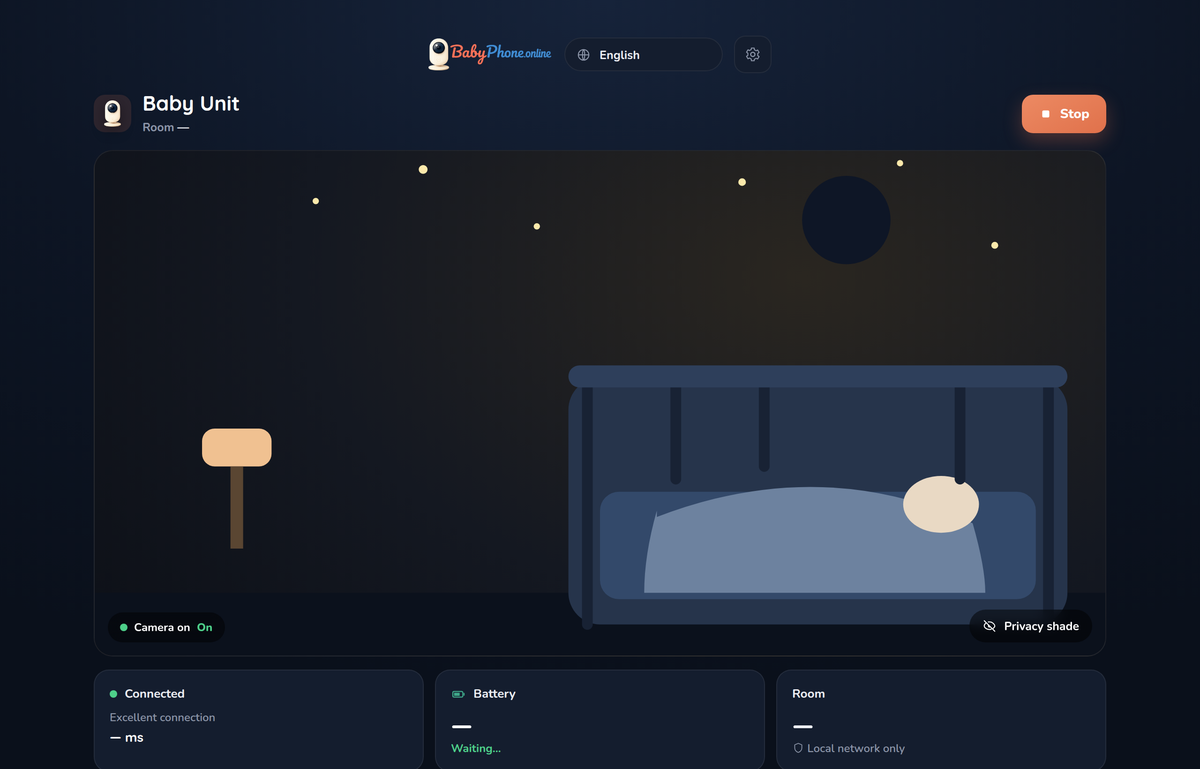
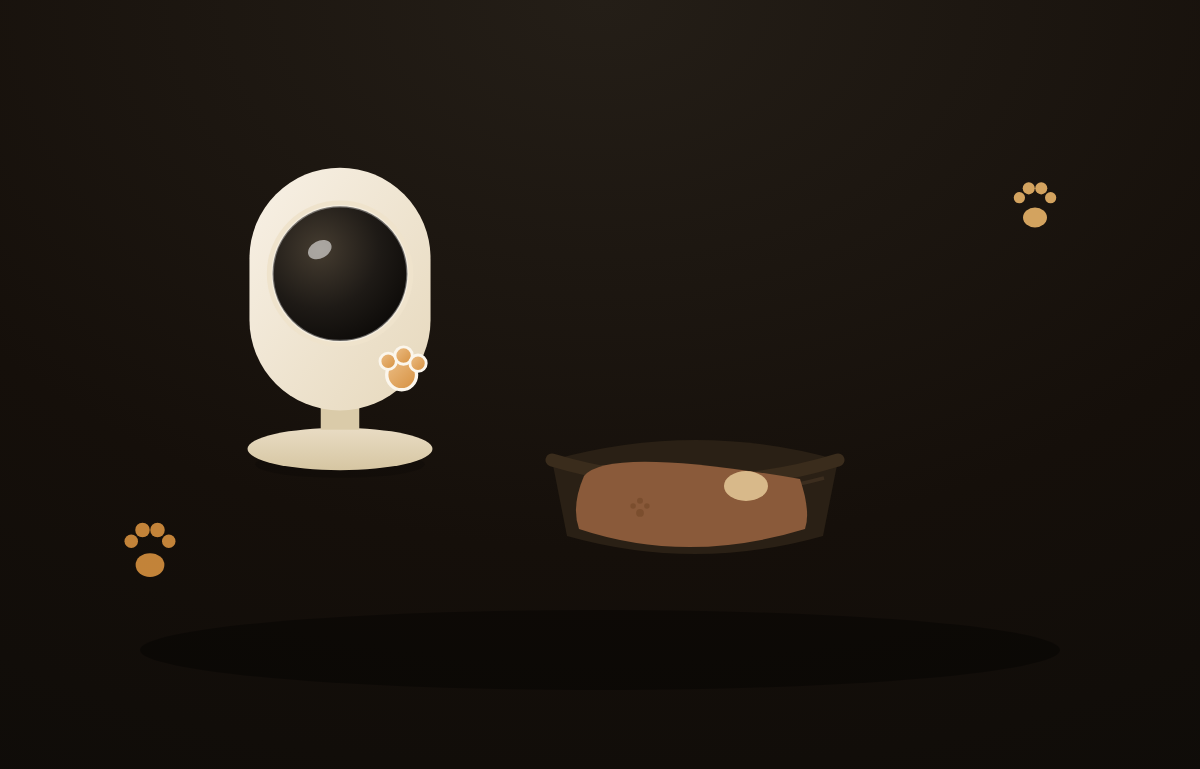
Add new PetCam.online brand assets
Replaces the babyphone camera illustration, wordmark, favicons, hero
image, og-image, and blog banners with a hand-authored pet-cam +
paw-print mark rendered via Playwright/SVG, matching the "Rustige
Schemering" amber/charcoal palette. Adjusts index.html logo width/
height attributes for the new 4:1 wordmark aspect ratio.

diff --git a/serverless/index.html b/serverless/index.html
@@ -182,7 +182,7 @@
         <!-- top nav -->
         <header class="lp-nav">
           <a class="lp-brand" href="./" aria-label="PetCam.online">
-            <img class="lp-logo" src="assets/logo.png" alt="PetCam.online" width="200" height="52" />
+            <img class="lp-logo" src="assets/logo.png" alt="PetCam.online" width="200" height="50" />
           </a>
           <div class="lp-nav-right">
             <a href="privacy.html" class="lp-navlink" data-i18n="navPrivacy">Privacy</a>
@@ -305,7 +305,7 @@
 
         <!-- footer -->
         <footer class="lp-footer">
-          <div class="lp-footer-brand"><img class="lp-logo foot" src="assets/logo.png" alt="PetCam.online" width="170" height="44" /></div>
+          <div class="lp-footer-brand"><img class="lp-logo foot" src="assets/logo.png" alt="PetCam.online" width="170" height="43" /></div>
           <p data-i18n="footPrivacy">Video and sound go directly between your own devices. No recordings are stored.</p>
           <p class="lp-foot-dis" data-i18n="footDisclaimer">An aid, not a replacement for in-person care of your pet.</p>
           <nav class="lp-foot-links" aria-label="Legal">
@@ -370,7 +370,7 @@
     <!-- ======================= OWNER UNIT (dark dashboard) ======================= -->
     <section id="screenParent" class="hidden">
       <div class="dash-topbar">
-        <div class="dash-brand"><img class="dash-logo-img" src="assets/logo.png" alt="PetCam.online" width="150" height="39" /></div>
+        <div class="dash-brand"><img class="dash-logo-img" src="assets/logo.png" alt="PetCam.online" width="150" height="38" /></div>
         <div class="dash-topright">
           <span class="lang-pill"><svg class="globe" viewBox="0 0 24 24" fill="none"><circle cx="12" cy="12" r="9" stroke="currentColor" stroke-width="1.7"/><path d="M3 12h18M12 3c2.5 2.5 2.5 15 0 18M12 3c-2.5 2.5-2.5 15 0 18" stroke="currentColor" stroke-width="1.7"/></svg><span id="langSelectParent"></span></span>
           <button class="dash-gear" data-i18n-title="navSettings" title="Settings" aria-label="Settings"><svg viewBox="0 0 24 24" fill="none" width="18" height="18"><circle cx="12" cy="12" r="3" stroke="currentColor" stroke-width="1.7"/><path d="M19 12a7 7 0 0 0-.1-1.3l2-1.5-2-3.4-2.3 1a7 7 0 0 0-2.3-1.3L14 3h-4l-.3 2.2a7 7 0 0 0-2.3 1.3l-2.3-1-2 3.4 2 1.5A7 7 0 0 0 5 12a7 7 0 0 0 .1 1.3l-2 1.5 2 3.4 2.3-1a7 7 0 0 0 2.3 1.3L10 21h4l.3-2.2a7 7 0 0 0 2.3-1.3l2.3 1 2-3.4-2-1.5A7 7 0 0 0 19 12z" stroke="currentColor" stroke-width="1.4" stroke-linejoin="round"/></svg></button>
@@ -551,7 +551,7 @@
     <section id="screenBaby" class="hidden">
       <div class="bdash">
         <div class="dash-topbar">
-          <div class="dash-brand"><img class="dash-logo-img" src="assets/logo.png" alt="PetCam.online" width="150" height="39" /></div>
+          <div class="dash-brand"><img class="dash-logo-img" src="assets/logo.png" alt="PetCam.online" width="150" height="38" /></div>
           <div class="dash-topright">
             <span class="lang-pill"><svg class="globe" viewBox="0 0 24 24" fill="none"><circle cx="12" cy="12" r="9" stroke="currentColor" stroke-width="1.7"/><path d="M3 12h18M12 3c2.5 2.5 2.5 15 0 18M12 3c-2.5 2.5-2.5 15 0 18" stroke="currentColor" stroke-width="1.7"/></svg><span id="langSelectBaby"></span></span>
             <button class="dash-gear" data-i18n-title="navSettings" title="Settings" aria-label="Settings"><svg viewBox="0 0 24 24" fill="none" width="18" height="18"><circle cx="12" cy="12" r="3" stroke="currentColor" stroke-width="1.7"/><path d="M19 12a7 7 0 0 0-.1-1.3l2-1.5-2-3.4-2.3 1a7 7 0 0 0-2.3-1.3L14 3h-4l-.3 2.2a7 7 0 0 0-2.3 1.3l-2.3-1-2 3.4 2 1.5A7 7 0 0 0 5 12a7 7 0 0 0 .1 1.3l-2 1.5 2 3.4 2.3-1a7 7 0 0 0 2.3 1.3L10 21h4l.3-2.2a7 7 0 0 0 2.3-1.3l2.3 1 2-3.4-2-1.5A7 7 0 0 0 19 12z" stroke="currentColor" stroke-width="1.4" stroke-linejoin="round"/></svg></button>
